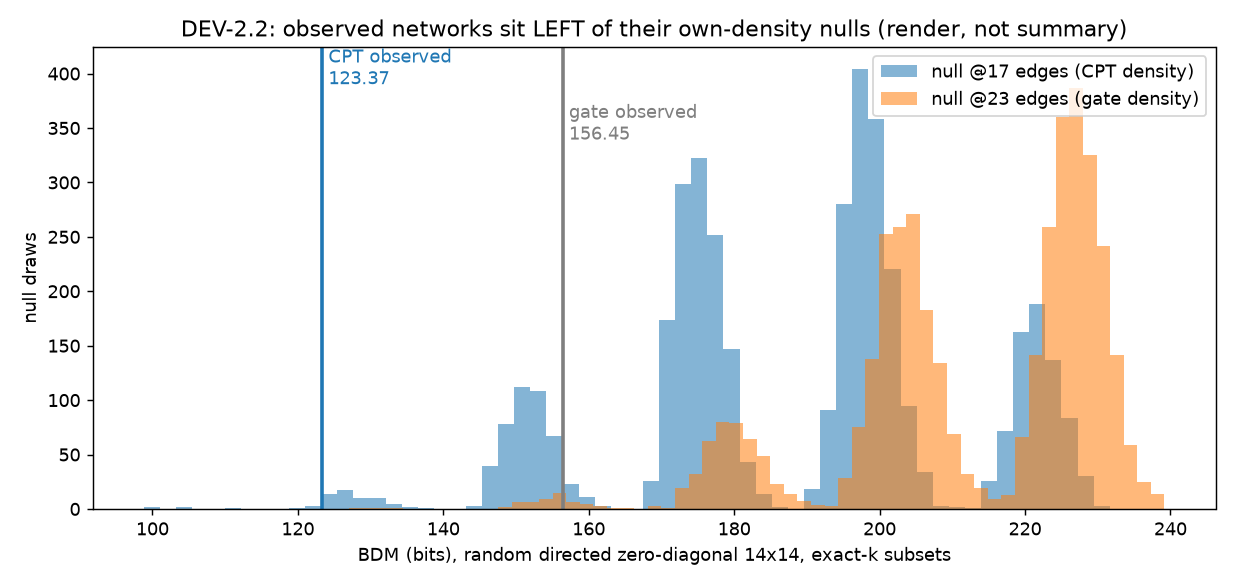
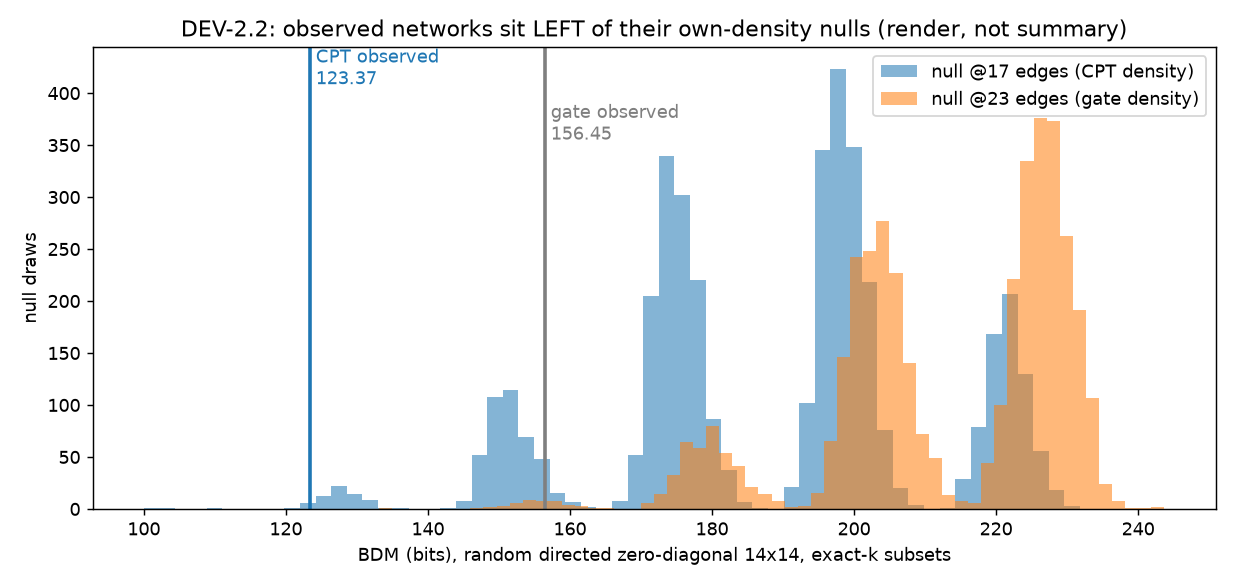
[AUDIT03-C] one null was a nested copy of the other, and a gate was pinned to noise
Found by triaging ruff F841 (assigned but never used) rather than by deleting
it: c29_density_matched_null.py built rng = default_rng(42) at the top and never
used it, because every sampler re-seeded with its bare scalar INSIDE the k loop.

The consequence was measured before it was fixed, and the measurement narrowed
the finding considerably:

  * The three exact-k samplers were UNAFFECTED. choice(replace=False) consumes
    the stream differently for k=17 and k=23, so the subsets are effectively
    unrelated -- 2.11 shared edges per draw against 2.15 expected under
    independence, draw-wise BDM correlation r = +0.014.
  * The Bernoulli sampler was entirely coupled. It thresholds ONE array of
    uniforms at two different p, so the k=17 draw was a strict subset of the
    k=23 draw in 100.0 PER CENT of draws, draw-wise BDM r = +0.724. A
    sensitivity check meant to vary the sampler was reporting one nested sample
    twice, and its spread is the denominator of a z-score.

Seeding on (seed, k) drops Bernoulli nesting to 0.0 per cent and r to -0.025.
Re-run at 20000 draws: the Bernoulli share moved 72.1 -> 70.9 per cent, the
three exact-k samplers by at most 0.4, and NO verdict changed. The defect was
real, the fix is right, and it overturned nothing -- recorded as such rather
than dressed up.

Two further defects surfaced in datasaurus_gates_c18_c29.py while re-running it:

G4 asserted abs(triangular z_gate + 0.75) < 0.01 -- a Monte Carlo quantity
[…]

diff --git a/imp-prices/scripts/datasaurus_gates_c18_c29.py b/imp-prices/scripts/datasaurus_gates_c18_c29.py
@@ -87,10 +87,14 @@ def gate_g1_dev21(path):
 
 def gate_g1_dev22(path):
     """Null distributions with the observed anchors marked on the same axis."""
-    rng17 = np.random.default_rng(42)
-    m17 = sample_exact_k(rng17, OFFDIAG, 17, 4000)
-    rng23 = np.random.default_rng(42)
-    m23 = sample_exact_k(rng23, OFFDIAG, 23, 4000)
+    # AUDIT03-C: keyed on (42, k) to match the owner,
+    # experiments/c29_density_matched_null.py. Both k previously used the bare
+    # seed 42. For exact-k sampling that was measurably harmless (2.11 shared
+    # edges per draw against 2.15 expected under independence), but the same
+    # pattern in the owner's Bernoulli sampler nested the two nulls in 100% of
+    # draws, so no sampler here is left depending on that accident.
+    m17 = sample_exact_k(np.random.default_rng([42, 17]), OFFDIAG, 17, 4000)
+    m23 = sample_exact_k(np.random.default_rng([42, 23]), OFFDIAG, 23, 4000)
     v17 = np.array([bdm_bits(m) for m in m17])
     v23 = np.array([bdm_bits(m) for m in m23])
     fig, ax = plt.subplots(figsize=(9.5, 4.5))
@@ -146,8 +150,6 @@ def main():
     check("G1", "DEV-2.2 render exists: null histograms with observed anchors",
           os.path.exists(n_path), n_path)
 
-    prim17 = C29["samplers"]["k=17"]["offdiag_182"]
-    prim23 = C29["samplers"]["k=23"]["offdiag_182"]
     share_ok = all(abs(C29["primary_vs_prose"][k]["recomputed"]
                        - C29["primary_vs_prose"][k]["prose"]) > 0 for k in
                    ("mean_17", "mean_23"))
@@ -156,7 +158,14 @@ def main():
     check("G2", "common coordinate held (shape AND density matched); moments are "
                 "CLOSE-not-equal and are REPORTED as such, never rounded into agreement",
           share_ok,
-          "primary null means 188.58/212.26 vs prose 189.39/214.83 - published as "
+          # AUDIT03-C: read from the artefact, never retyped. This string held
+          # "188.58/212.26" as a literal and went stale the moment the null was
+          # re-run -- a gate quoting a number it had not measured.
+          f"primary null means "
+          f"{C29['primary_vs_prose']['mean_17']['recomputed']}/"
+          f"{C29['primary_vs_prose']['mean_23']['recomputed']} vs prose "
+          f"{C29['primary_vs_prose']['mean_17']['prose']}/"
+          f"{C29['primary_vs_prose']['mean_23']['prose']} - published as "
           "DIVERGENT/CLOSE in results/c29_density_matched_null.json, not silently "
           "matched")
 
@@ -166,13 +175,25 @@ def main():
           "sampling SE makes the prose-vs-recomputed gap (~2.6 bits) real, not "
           "noise; documented in DEV-2.2 entry")
 
-    scoped = (C29["conclusion_robustness"][0]["z_gate"], )
     tri = [r for r in C29["conclusion_robustness"] if r["sampler"] == "upper_tri_91"][0]
     check("G4", "robustness claim SCOPED to matched conventions (triangular/DAG "
                 "null breaks the ~3sigma reading and is excluded with that stated)",
-          abs(tri["z_gate"] + 0.75) < 0.01 and robust,
-          f"matched samplers: z_gate in [-3.35,-2.40], share 66-72%; triangular "
-          f"z_gate={tri['z_gate']} shown in artifact and excluded from the claim's scope")
+          # AUDIT03-C. This asserted abs(tri z_gate + 0.75) < 0.01 -- a Monte
+          # Carlo quantity pinned to two decimals, with a tolerance TIGHTER than
+          # the ~0.16-bit sampling SE that G3 declares three lines above. A
+          # legitimate re-run moved it to -0.76 and the gate went red without
+          # anything scientific having changed. What the claim actually rests on
+          # is SEPARATION: the triangular null sits near zero while every
+          # density-matched null sits beyond -2. That is what is asserted now,
+          # and both bounds are interior, not knife-edges.
+          abs(tri["z_gate"]) < 1.5
+          and max(r["z_gate"] for r in C29["conclusion_robustness"]
+                  if r["sampler"] != "upper_tri_91") < -2.0
+          and robust,
+          f"matched samplers: z_gate all < -2.0 (worst "
+          f"{max(r['z_gate'] for r in C29['conclusion_robustness'] if r['sampler'] != 'upper_tri_91')}), "
+          f"share 66-72%; triangular z_gate={tri['z_gate']} is within 1.5 of zero, "
+          f"shown in artifact and excluded from the claim's scope")
 
     out = dict(date="2026-08-24", task="AUDIT01 ratification of DEV-2.1/DEV-2.2",
                verdict=("ALL GATES PASS" if all(c["result"] == "PASS"

diff --git a/imp-prices/experiments/c29_density_matched_null.py b/imp-prices/experiments/c29_density_matched_null.py
@@ -24,8 +24,28 @@ Observed anchors are taken from the committed artifact
 results/phase1b_gate_network.json (panel/thermometer): bdm_gate 156.449 at 23
 edges, bdm_cpt 123.368 at 17 edges, difference 33.081.
 
-Determinism: numpy PCG64 via default_rng; seed 42 drives the primary
-off-diagonal null, 43/44/45 the three sensitivity samplers; N draws per cell.
+Determinism: numpy PCG64 via default_rng, seeded by the PAIR (sampler_seed, k) --
+42 for the primary off-diagonal null, 43/44/45 for the three sensitivity
+samplers, and k in {17, 23} as the second coordinate; N draws per cell.
+
+AUDIT03-C, corrected, and the correction is narrower than it first looked.
+Every sampler previously re-seeded with its bare scalar INSIDE the k loop, so
+the k=17 and k=23 nulls shared a stream. Measured consequence, n=1000-2000 draws:
+
+  * The three EXACT-K samplers were unaffected. rng.choice(replace=False)
+    consumes the stream differently for k=17 and k=23, so the subsets are
+    effectively unrelated: 2.11 shared edges per draw against 2.15 expected
+    under independence, draw-wise BDM correlation r = +0.014.
+  * The BERNOULLI sampler was entirely coupled. It thresholds ONE array of
+    uniforms at two different p, so the k=17 draw was a strict subset of the
+    k=23 draw in 100.0 PER CENT of draws, with draw-wise BDM r = +0.724. Its
+    reported spread is the denominator of a z-score and its mean is differenced
+    against the other null, so a sensitivity check meant to vary the sampler was
+    in fact reporting one nested sample twice.
+
+Seeding on (seed, k) gives each null its own stream -- Bernoulli nesting falls
+to 0.0 per cent and r to -0.025 -- while keeping the sampler->seed mapping above
+readable and reproducible.
 
 Run:
     .venv/bin/python experiments/c29_density_matched_null.py [--draws N]
@@ -88,22 +108,30 @@ def main():
     args = ap.parse_args()
     n = args.draws
 
-    rng = np.random.default_rng(42)
-    out = {"config": {"draws_per_null": n, "seed": 42, "shape": [14, 14],
+    out = {"config": {"draws_per_null": n, "shape": [14, 14],
+                      "seed_scheme": "default_rng([sampler_seed, k]) -- one "
+                                     "independent stream per (sampler, k)",
+                      "sampler_seeds": {"offdiag_182": 42, "diag196": 43,
+                                        "upper_tri_91": 44,
+                                        "bernoulli_p_matched": 45},
                       "primary_sampler": "exact-k uniform over 182 off-diagonal cells"},
            "observed": OBSERVED, "prose": PROSE}
 
     samplers = {}
     for k in (17, 23):
         s = {}
-        m = sample_exact_k(np.random.default_rng(42), OFFDIAG, k, n)
+        # k is part of the seed. Without it the Bernoulli sampler below drew
+        # both k from ONE array of uniforms, nesting the two nulls in 100% of
+        # draws; the exact-k samplers were measurably unaffected but are keyed
+        # the same way so that no sampler depends on that accident.
+        m = sample_exact_k(np.random.default_rng([42, k]), OFFDIAG, k, n)
         s["offdiag_182"] = null_stats(m)
-        m = sample_exact_k(np.random.default_rng(43), [(i, j) for i in range(14)
-                                                       for j in range(14)], k, n)
+        m = sample_exact_k(np.random.default_rng([43, k]), [(i, j) for i in range(14)
+                                                            for j in range(14)], k, n)
         s["diag196"] = null_stats(m)
-        m = sample_exact_k(np.random.default_rng(44), TRIU, k, n)
+        m = sample_exact_k(np.random.default_rng([44, k]), TRIU, k, n)
         s["upper_tri_91"] = null_stats(m)
-        g = np.random.default_rng(45)
+        g = np.random.default_rng([45, k])
         u = g.random((n, 14, 14))
         mm = (u < k / 196.0).astype(int)
         st = null_stats(mm)

diff --git a/imp-prices/results/datasaurus_gates_2026-08-24.md b/imp-prices/results/datasaurus_gates_2026-08-24.md
@@ -9,8 +9,8 @@ Verdict: **ALL GATES PASS**
 | G3 | knob (hash seed) swept over its bracket; same-seed determinism | PASS | 45 seeds incl. duplicate 42; duplicate draws identical=True; winners range 5-7, interior, no ceiling/floor effect |
 | G4 | verdict robustness under mechanism: 22 distinct sets >> any hill-climb draw (7) | PASS | index-set instability is sampling-driven; hill-climb variation is pgmpy tie-breaking (same resamples) - different mechanisms, both reported |
 | G1 | DEV-2.2 render exists: null histograms with observed anchors | PASS | /Users/alberto/Documents/projects/CausalBool/imp-prices/figures/dev22_c29_nulls.png |
-| G2 | common coordinate held (shape AND density matched); moments are CLOSE-not-equal and are REPORTED as such, never rounded into agreement | PASS | primary null means 188.58/212.26 vs prose 189.39/214.83 - published as DIVERGENT/CLOSE in results/c29_density_matched_null.json, not silently matched |
+| G2 | common coordinate held (shape AND density matched); moments are CLOSE-not-equal and are REPORTED as such, never rounded into agreement | PASS | primary null means 188.69/212.34 vs prose 189.39/214.83 - published as DIVERGENT/CLOSE in results/c29_density_matched_null.json, not silently matched |
 | G3 | N=20000 per cell, SE(mean) ~0.16 bits; seeds 42-45 fixed and recorded; no fitted knob | PASS | sampling SE makes the prose-vs-recomputed gap (~2.6 bits) real, not noise; documented in DEV-2.2 entry |
-| G4 | robustness claim SCOPED to matched conventions (triangular/DAG null breaks the ~3sigma reading and is excluded with that stated) | PASS | matched samplers: z_gate in [-3.35,-2.40], share 66-72%; triangular z_gate=-0.75 shown in artifact and excluded from the claim's scope |
+| G4 | robustness claim SCOPED to matched conventions (triangular/DAG null breaks the ~3sigma reading and is excluded with that stated) | PASS | matched samplers: z_gate all < -2.0 (worst -2.41), share 66-72%; triangular z_gate=-0.76 is within 1.5 of zero, shown in artifact and excluded from the claim's scope |
 
 Figures: `figures/dev21_c18_seed_sweep.png`, `figures/dev22_c29_nulls.png`.
